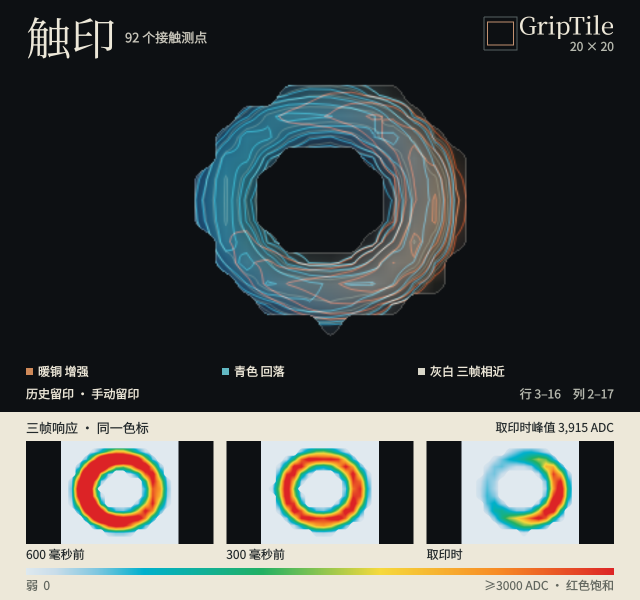
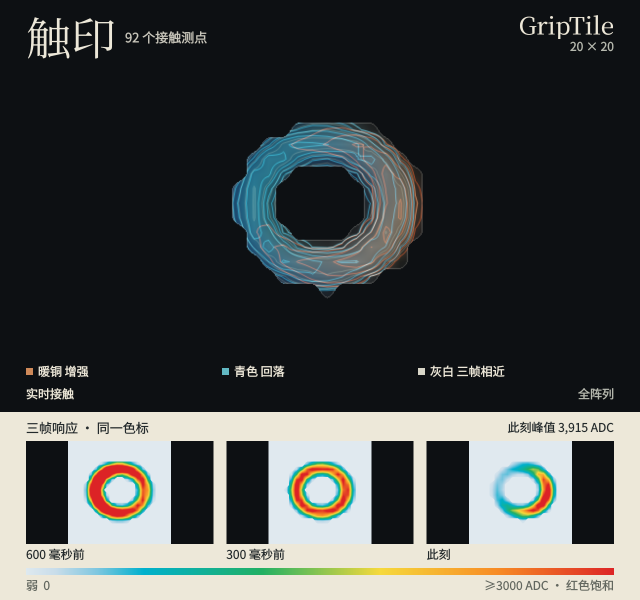
Keep contact print framing fixed throughout contact and release

diff --git a/src/griptile_viewer/test/test_contact_print_dialog.py b/src/griptile_viewer/test/test_contact_print_dialog.py
@@ -71,7 +71,7 @@ def _settle(window, record, qt_app):
     pytest.fail(f"touch print did not settle: {window.status.text()}")
 
 
-def test_manual_capture_actual_timing_shared_crop_resize_and_export(display, qt_app, tmp_path):
+def test_manual_capture_actual_timing_full_array_and_export(display, qt_app, tmp_path):
     window, capture = display
     assert not window.isModal()
     assert not window.shutter_button.isEnabled()
@@ -95,7 +95,7 @@ def test_manual_capture_actual_timing_shared_crop_resize_and_export(display, qt_
     assert "1 个接触测点" in window.plate.accessibleDescription()
     assert "三帧响应" in window.plate.accessibleDescription()
     assert "2,600 ADC" in window.plate.peak_text and "2000 ADC" in window.plate.accessibleDescription()
-    assert window.plate.bounds == QtCore.QRect(0, 6, 7, 6)
+    assert window.plate.bounds == ui.FULL_ARRAY and not window.zoom.isChecked()
     assert window.export_button.isEnabled() and window.zoom.isEnabled()
     assert len(window.plate.images) == 4
     center = SURFACE_SCALE // 2
@@ -108,14 +108,13 @@ def test_manual_capture_actual_timing_shared_crop_resize_and_export(display, qt_
         rgb = pic.pixelColor(col * SURFACE_SCALE + center, row * SURFACE_SCALE + center).getRgb()[:3]
         assert rgb == contact_intensity_rgb(adc, record.span_adc)
 
-    cropped = window.plate.export_image()
+    full_array = window.plate.export_image()
     # The exported color key uses the same fixed palette as the measured pixels.
     margin = 640 // 24
     for level, rgb in CONTACT_COLOR_STOPS:
         x = int(2 * (margin + level * (640 - 2 * margin)))
         x = min(x, 2 * (640 - margin) - 1)
-        np.testing.assert_allclose(cropped.pixelColor(x, 1140).getRgb()[:3], rgb, atol=3)
-    window.zoom.setChecked(False)
+        np.testing.assert_allclose(full_array.pixelColor(x, 1140).getRgb()[:3], rgb, atol=3)
     window.resize(335, 475)
     qt_app.processEvents()
     path = tmp_path / "actual.png"
@@ -124,14 +123,14 @@ def test_manual_capture_actual_timing_shared_crop_resize_and_export(display, qt_
     assert loaded.size() == QtCore.QSize(1280, 1200)
     assert loaded.pixelColor(2, 2) == ui.GROUND
     assert loaded.pixelColor(2, 1198) == ui.PAPER
-    assert loaded.convertToFormat(cropped.format()) != cropped
+    assert loaded.convertToFormat(full_array.format()) == full_array
     assert window.plate.record is record
     capture.release()
     window.history_button.click()
     assert window.plate.record is None and not window.plate.images and window.plate.empty_text == "无接触"
 
 
-def test_crop_and_contact_count_follow_support_while_proofs_keep_weak_responses(display, qt_app):
+def test_manual_zoom_uses_measured_support_while_proofs_keep_weak_responses(display, qt_app):
     window, capture = display
     base = _sample()
     frames = np.array(base.frames)
@@ -143,12 +142,35 @@ def test_crop_and_contact_count_follow_support_while_proofs_keep_weak_responses(
     shaped = replace(base, frames=tuple(frames), footprints=tuple(masks))
     capture.press(shaped)
     _settle(window, shaped, qt_app)
-    assert window.plate.bounds == QtCore.QRect(0, 6, 7, 11)  # Includes the earlier weak contact.
+    assert window.plate.bounds == ui.FULL_ARRAY and not window.zoom.isChecked()
+    window.zoom.click()
+    locked = QtCore.QRect(0, 6, 7, 11)  # Includes the earlier weak contact.
+    assert window.plate.bounds == locked
     assert window.plate.footprint_label() == "1 个接触测点"
     x, y = 19 * SURFACE_SCALE + SURFACE_SCALE // 2, SURFACE_SCALE // 2
     master, _, _, latest = window.plate.images
     assert latest.pixelColor(x, y).getRgb()[:3] == contact_intensity_rgb(700, shaped.span_adc)
     assert master.pixelColor(x, y) == ui.GROUND
+
+    # A later footprint and a saved print each have a different close-up.
+    # Neither should move the region selected by the user.
+    shifted = replace(shaped, frames=tuple(np.roll(frames, 8, axis=2)),
+                      footprints=tuple(np.roll(masks, 8, axis=2)))
+    capture.live = shifted
+    _settle(window, shifted, qt_app)
+    assert window.plate.bounds == locked
+    capture.latest = base
+    capture.release()
+    window.refresh()
+    assert window.zoom.isEnabled() and window.plate.bounds == locked
+    window.history_button.click()
+    _settle(window, base, qt_app)
+    assert window.plate.bounds == locked
+    enlarged = window.plate.export_image()
+    window.zoom.click()
+    assert window.plate.bounds == ui.FULL_ARRAY
+    assert window.plate.export_image() != enlarged
+    window.history_button.click()
 
     unknown = replace(shaped, footprints=None)
     capture.press(unknown)
@@ -157,6 +179,46 @@ def test_crop_and_contact_count_follow_support_while_proofs_keep_weak_responses(
     assert "接触范围待测" in window.plate.accessibleDescription()
     assert window.plate.face_style == "response"
     assert window.plate.images[0].pixelColor(x, y) == latest.pixelColor(x, y)
+
+
+def test_edge_taxel_stays_registered_when_proofs_arrive_and_style_changes(display, qt_app, monkeypatch):
+    window, capture = display
+    # Mark exactly one native taxel in the face so its painted position and size
+    # can be measured independently of the palette, adjacent ink and Qt text.
+    marker = QtGui.QColor("#ff00ff")
+
+    def render(record, style):
+        blank = np.zeros((20 * SURFACE_SCALE, 20 * SURFACE_SCALE, 3), np.uint8)
+        face = blank.copy()
+        face[-SURFACE_SCALE:, :SURFACE_SCALE] = marker.getRgb()[:3]
+        return (face, blank, blank, blank) if len(record.frames) == 3 else (face,)
+
+    def painted_taxel():
+        boxes = []
+        for image in (window.plate.grab().toImage(), window.plate.export_image()):
+            mask = image.createMaskFromColor(marker.rgb(), QtCore.Qt.MaskOutColor)
+            box = QtGui.QRegion(QtGui.QBitmap.fromImage(mask)).boundingRect()
+            assert 0 < box.width() < image.width() / 20
+            assert box.left() < image.width() / 2
+            boxes.append(box)
+        return boxes
+
+    monkeypatch.setattr(ui, "_render_exposures", render)
+    base = _sample()
+    fields = np.array(base.frames)
+    fields[:, 19, 0] = 2000
+    triplet = replace(base, frames=tuple(fields), footprints=tuple(fields > 0))
+    first = replace(triplet, frames=triplet.frames[:1], stamps_ns=triplet.stamps_ns[:1],
+                    footprints=triplet.footprints[:1])
+    capture.press(first)
+    _settle(window, first, qt_app)
+    expected = painted_taxel()
+    capture.live = triplet
+    _settle(window, triplet, qt_app)
+    assert painted_taxel() == expected
+    window.style_combo.setCurrentIndex(window.style_combo.findData("response"))
+    _settle(window, triplet, qt_app)
+    assert painted_taxel() == expected
 
 
 def test_first_frame_shows_its_face_before_three_exposures_exist(display, qt_app):

diff --git a/src/griptile_viewer/griptile_viewer/contact_print_dialog.py b/src/griptile_viewer/griptile_viewer/contact_print_dialog.py
@@ -104,7 +104,6 @@ class _PrintPlate(QtWidgets.QWidget):
         self.face_style = "imprint"
         self.peak_text = ""
         self.empty_text = "等待有效读数"
-        self.zoomed = True
         self.setMinimumSize(300, 320)
         self.setAccessibleName("触印与三帧响应")
 
@@ -114,7 +113,6 @@ class _PrintPlate(QtWidgets.QWidget):
             return
         self.record = None
         self.images = self.proof_labels = ()
-        self.bounds = FULL_ARRAY
         self.incomplete = self.historical = False
         self.missing_history = False
         self.peak_text = ""
@@ -126,7 +124,6 @@ class _PrintPlate(QtWidgets.QWidget):
     def assign(self, record, images, *, historical, style):
         self.record = record
         self.images = tuple(_qimage(image) for image in images)
-        self.bounds = _contact_bounds(record.footprints)
         self.historical = historical
         self.face_style = style
         last = record.stamps_ns[-1]
@@ -173,7 +170,8 @@ class _PrintPlate(QtWidgets.QWidget):
         margin = min(28, max(12, width // 24))
         title = min(48, max(30, width // 14))
         has_proofs = len(self.images) > 1
-        proof_height = min(188, max(116, height // 3)) if has_proofs else 65
+        # Reserve the proof strip from the first frame so adding exposures cannot move the array.
+        proof_height = min(188, max(116, height // 3))
         hero = height - proof_height
         painter.setRenderHint(QtGui.QPainter.SmoothPixmapTransform, not self.incomplete)
         painter.fillRect(rect(0, 0, width, height), GROUND)
@@ -203,7 +201,7 @@ class _PrintPlate(QtWidgets.QWidget):
         _text(painter, rect(margin, hero + 4, width - 2 * margin, 22), proof_note, INK, 13)
         _text(painter, rect(margin, hero + 4, width - 2 * margin, 22),
               self.peak_text, INK, 12, right=True)
-        bounds = self.bounds if self.zoomed else FULL_ARRAY
+        bounds = self.bounds
         if bounds != FULL_ARRAY and width >= 380:
             # Locator shows the selected region in the full physical array.
             locator = rect(width - margin - 130, 17, 33, 33)
@@ -215,8 +213,7 @@ class _PrintPlate(QtWidgets.QWidget):
                                   bounds.width() / COLS * locator.width(),
                                   bounds.height() / ROWS * locator.height()))
         view_top = max(57, title + 19)
-        footer = 55 if imprint else 34
-        view = rect(margin, view_top, width - 2 * margin, hero - view_top - footer)
+        view = rect(margin, view_top, width - 2 * margin, hero - view_top - 55)
         _draw_exposure(painter, view, self.images[0], bounds)
         if imprint:
             _draw_ink_key(painter, margin, width - 2 * margin, hero - 51, has_proofs, self.missing_history)
@@ -284,8 +281,7 @@ class ContactPrintDialog(QtWidgets.QDialog):
             controls.addWidget(button)
         controls.addStretch()
         self.zoom = QtWidgets.QCheckBox("放大接触区", self)
-        self.zoom.setChecked(True)
-        self.zoom.setToolTip("三个时刻共用同一取景。取消可查看完整阵列。")
+        self.zoom.setToolTip("锁定此刻的接触区域。取消后查看完整的 20 × 20 阵列。")
         controls.addWidget(self.zoom)
         layout.addLayout(controls)
         self.status = QtWidgets.QLabel(self)
@@ -311,7 +307,10 @@ class ContactPrintDialog(QtWidgets.QDialog):
         self.style_combo.currentIndexChanged.connect(self.refresh)
 
     def _set_zoom(self, enabled):
-        self.plate.zoomed = enabled
+        record = self.plate.record
+        self.plate.bounds = _contact_bounds(record.footprints) if enabled and record is not None else FULL_ARRAY
+        if enabled and self.plate.bounds == FULL_ARRAY:
+            self.zoom.setChecked(False)
         self.plate.update()
 
     def showEvent(self, event):
@@ -375,7 +374,8 @@ class ContactPrintDialog(QtWidgets.QDialog):
         self.history_button.setText("返回实时" if historical else "上次留印")
         self.shutter_button.setEnabled(not historical and capture.can_snapshot)
         self.export_button.setEnabled(historical and self.plate.record is not None)
-        self.zoom.setEnabled(self.plate.record is not None and self.plate.bounds != FULL_ARRAY)
+        self.zoom.setEnabled(self.zoom.isChecked() or
+                             (self.plate.record is not None and self.plate.record.footprints is not None))
         if self._error:
             text = "无法生成触印　" + self._error
         elif historical:

diff --git a/docs/README.en.md b/docs/README.en.md
@@ -57,11 +57,13 @@ Open the live contact print at startup with the command below. The main window a
 ros2 launch griptile_driver sensor.launch.py imprint:=true
 ```
 
-Click **触印** beside the GripTile name. The default print uses a black ground. A single observation produces a neutral impression. Once three exposures are available, their equal-response lines are registered inside the latest measured footprint. Copper highlights growing responses, cyan highlights receding responses, and aligned impressions approach ivory. The latest observation determines the outer edges and holes. Separate patches stay separate and the live print clears on release. Clear **放大接触区** to locate the imprint on the full array.
+Click **触印** beside the GripTile name. The full 20×20 array is visible by default. Each taxel keeps its place on screen as contact patches move, grow or split. To inspect a detail, select **放大接触区** to lock the view to the current contact region. Clear it to return to the full array.
 
-Once sufficient observations are available, three color panels show the responses about 600 ms ago, 300 ms ago and at the latest sample, with the same crop and color scale. These panels include weak readings outside the detected footprint and help explain how its shape and strength change during loading and release.
+The print uses a black ground. A single observation produces a neutral impression. Once three exposures are available, their equal-response lines are registered inside the latest measured footprint at the same position and scale. Copper highlights growing responses, cyan highlights receding responses, and aligned impressions approach ivory. The latest observation determines the outer edges and holes. Separate patches stay separate and the live print clears on release.
 
-Select **响应** to color the large contact footprint on the same fixed ADC scale as the three response panels. Values above the recorded span stay red, while the peak readout retains the last exposure's actual ADC response. Saved prints can be reviewed in either style and exported with the selected style and its legend. The known-load workflow provides a separate force estimate in newtons.
+Once sufficient observations are available, three color panels show the responses about 600 ms ago, 300 ms ago and at the latest sample. They show the same region as the main print and share a fixed color scale. These panels include weak readings outside the detected footprint and help explain how its shape and strength change during loading and release.
+
+Select **响应** to color the large contact footprint on the same fixed ADC scale as the three response panels. Values above the recorded span stay red, while the peak readout retains the last exposure's actual ADC response. Saved prints can be reviewed in either style. PNG exports use the region, style and legend shown in the window. The known-load workflow provides a separate force estimate in newtons.
 
 Use the existing unloaded reference. A taxel reaching eight times its own threshold seeds a patch and continues to be tracked down to twice that threshold. Side-adjacent taxels at or above twice their own thresholds extend that footprint in the current frame. The boundary is interpolated between measured points. Equalization affects the displayed colors. The count describes native taxels included in the footprint. A complete observation with no tracked contact clears the live image immediately. A data gap displays a waiting state.
 

diff --git a/README.md b/README.md
@@ -69,11 +69,13 @@ ros2 service call /tactile/sensor_0/set_contact_reference griptile_msgs/srv/SetC
 ros2 launch griptile_driver sensor.launch.py imprint:=true
 ```
 
-点主窗口左上角的「触印」。默认主图以黑色为底，第一帧有效接触先以中性色显出印迹。三帧齐备后，同一位置在三个时刻的等响应线叠印在当前接触面内。暖铜色突出增强的部分，青色突出回落的部分，三次相近的线呈灰白。外缘和孔洞取自最新一帧。几个分开的接触区各自显示，松开后实时印迹清空。取消「放大接触区」可查看它在整个阵列上的位置。
+点主窗口左上角的「触印」。默认显示完整的 20×20 阵列。接触位置移动、印迹变大或分开时，可以用固定的阵列坐标比较它们的位置和范围。需要看局部时，勾选「放大接触区」会锁定此刻的取景，取消勾选即回到全阵列。
+
+主图以黑色为底，第一帧有效接触先以中性色显出印迹。三帧齐备后，主图沿用原来的位置和比例，同一位置在三个时刻的等响应线叠印在当前接触面内。暖铜色突出增强的部分，青色突出回落的部分，三次相近的线呈灰白。外缘和孔洞取自最新一帧。几个分开的接触区各自显示，松开后实时印迹清空。
 
 下方三张彩色响应图在数据齐备后出现，取自约 600 毫秒前、300 毫秒前和最后一帧。三帧共用取景和色标，也保留了接触面以外的微弱信号。对照它们可以看出缺口附近的触点有没有响应，以及响应如何随夹紧、松开而变化。
 
-需要按颜色比较强弱时，将主图切到「响应」。它和下方三帧共用采集时的固定色标，超量程显示红色，末帧峰值保留实际 ADC 响应值。「上次留印」可用任一画法回看，导出 PNG 使用当前所选画法和对应图例。力值（N）需通过已知载荷验证另行估算。
+需要按颜色比较强弱时，将主图切到「响应」。它和下方三帧共用采集时的固定色标，超量程显示红色，末帧峰值保留实际 ADC 响应值。「上次留印」可用任一画法回看，导出 PNG 沿用窗口的取景、画法和图例。力值（N）需通过已知载荷验证另行估算。
 
 沿用当前无载参考。响应达到自身门限 8 倍的测点作为起点，减力后同一点仍达 2 倍便继续跟踪。程序沿上下左右相邻、响应仍达各自门限 2 倍的测点确定本帧的接触范围。边界在这些测点之间插值，阵元均衡只调整颜色。界面中的点数是本帧被纳入接触范围的原生测点数。整面读数有效且接触消失时实时画面立即清空，断流时提示等待读数。
 

diff --git a/CHANGELOG.md b/CHANGELOG.md
@@ -8,6 +8,7 @@
 - Show the contact footprint from the first supported observation. Trace each patch and its holes from noise-referenced native taxels, with three full response maps for comparison once the time history is available.
 - Use a dark three-exposure imprint as the default contact print, with copper, cyan and ivory lines confined to the current measured footprint. Keep the calibrated color map available for viewing and export.
 - Open directly on the contact print in live and replay sessions with `imprint:=true`.
+- Keep the contact print at a fixed full-array scale as the footprint changes and the three exposures arrive. Manual zoom locks the selected region for live viewing, history and PNG export.
 
 - Extract the 44-byte, 20-column sensor protocol, serial ownership and rolling ADC grid into a standalone package.
 - Introduce sensor-scoped ROS 2 interfaces for raw rows, state, diagnostics and source metadata.
